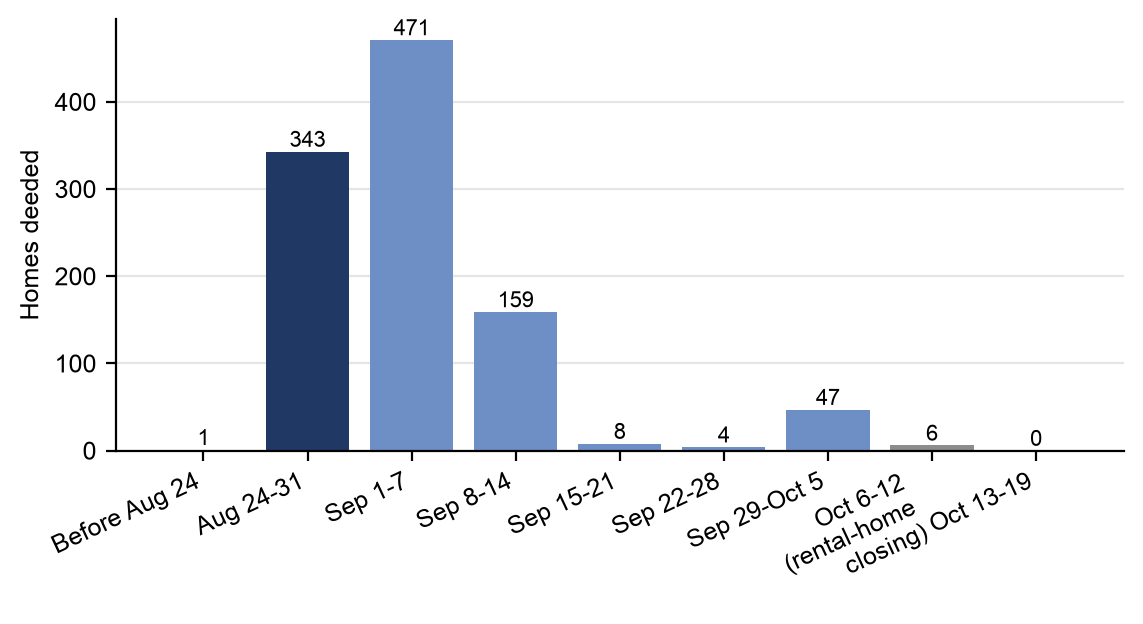
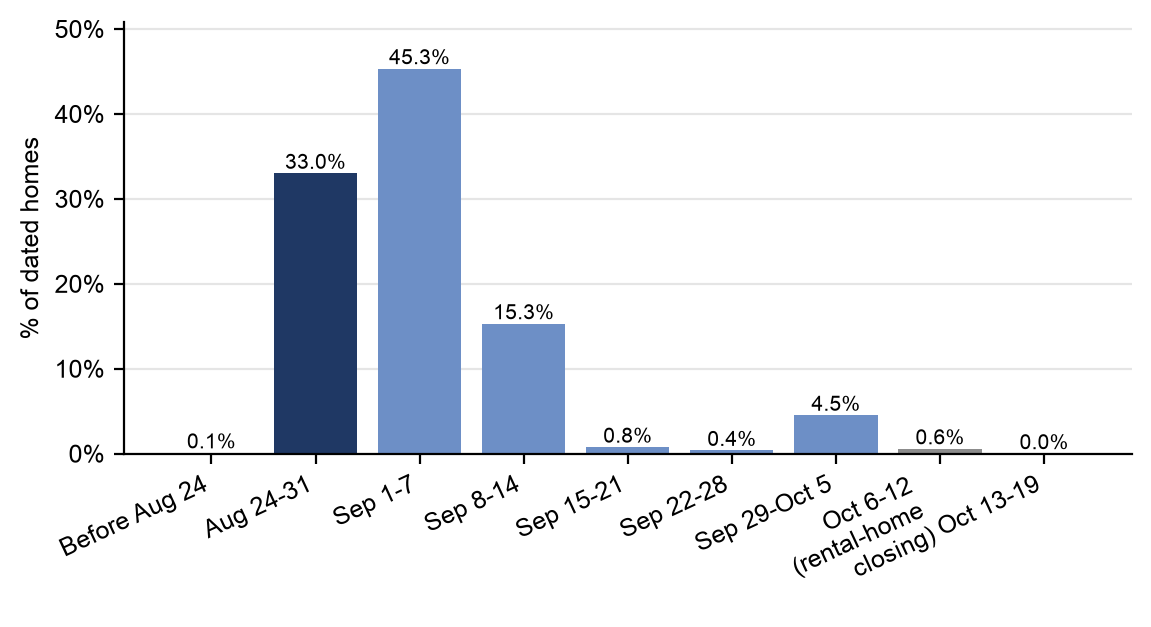
Note: add yield and IRR sensitivity to discounts vs deed prices (Exhibits 6b, 7b); show Exhibits 2 and 2b as % of homes

diff --git a/note/README.md b/note/README.md
@@ -39,14 +39,14 @@ Source: Millrose Q2 2026 10-Q, county deed records
 **Millrose appears to have paused its deployments into rental homes.** A smaller burst followed the flurry of late-August sales (around the end of September). In our most recent, re-check of ~190 searchable counties, we found no home deed to Millrose recorded after October 5, even though most county indexes were current to October 12–19. We believe this is evidence of the fact that MRP has paused its purchases of homes in recent weeks in response to investor concerns (including the risk-adjusted return profile of these investments), and we believe an official decision could be communicated at earnings.
 
 **Exhibit 2: Deeds were recorded from Aug 27 (the amendment date) through early September, then slowed; the last was a closing of 6 rental homes on Oct 7, with none since**
-*Homes deeded to Millrose by recording date (or assessor deed/sale date where the recording date is not shown); dark bar = Aug 24-31, the last week of August (the rental-home amendment is dated Aug 27; no deeds were recorded Aug 24-26 other than 1 county index entry). Deeds recorded in early September were mostly signed in late August. Before Aug 24 = 1 older deed. 4 Henrico, VA homes have only a weekly date range (Aug 26-Sep 1) and are shown in Aug 24-31. Oct 6-12 = a single closing of 6 rental homes in Forsyth County, NC (Oct 7); no deeds Oct 8-19.*
+*% of dated homes deeded to Millrose (n=1,039; sums to 100%), by recording date (or assessor deed/sale date where the recording date is not shown); dark bar = Aug 24-31, the last week of August (the rental-home amendment is dated Aug 27; no deeds were recorded Aug 24-26 other than 1 county index entry). Deeds recorded in early September were mostly signed in late August. Before Aug 24 = 1 older deed. 4 Henrico, VA homes have only a weekly date range (Aug 26-Sep 1) and are shown in Aug 24-31. Oct 6-12 = a single closing of 6 rental homes in Forsyth County, NC (Oct 7); no deeds Oct 8-19.*
 
 ![Exhibit 2](exhibits/ex2.png)
 
 Source: County deed records (searched through Oct 19, 2026; most indexes current to Oct 12-19)
 
 **Exhibit 2b: On a signing-date basis, ~87% of sampled homes were signed in Aug 24-31, the last week of August**
-*Homes by deed signing date or assessor sale date, where public (sample of 433 homes, ~40% of the total; weighted to TX, SC and AR). Aug 24-31 includes 25 Horry County, SC assessor sale dates of Aug 24-25, likely contract or deed-preparation dates; all other dates in that week fall on Aug 27-31. Earlier dates on the same parcels (prior transactions) excluded.*
+*% of sampled homes by deed signing date or assessor sale date, where public (sample of 433 homes, sums to 100%; ~40% of the total; weighted to TX, SC and AR). Aug 24-31 includes 25 Horry County, SC assessor sale dates of Aug 24-25, likely contract or deed-preparation dates; all other dates in that week fall on Aug 27-31. Earlier dates on the same parcels (prior transactions) excluded.*
 
 ![Exhibit 2b](exhibits/ex2b.png)
 
@@ -102,7 +102,16 @@ Source: Evergreen Live, AMH and Invitation Homes rental listings (Oct 2026), US 
 
 Source: Evergreen Live listings (Oct 2026), county deed records
 
-**Returns.** We estimate the portfolio unlevered IRR under three home price scenarios (Exhibit 7), assuming a 60% NOI margin and 3% annual rent growth after year one. In a downside scenario, with home prices down 2% in year one and flat thereafter, the IRR is ~3.3% over three years and ~4.1% over five. In a middle scenario, with Zillow's 12-month zip-code forecast in year one (~+0.6% on average) and 3% a year thereafter, the IRR is ~6.0–6.7% over a 3–5 year hold. In a stretch scenario of 5% home price growth every year, the 5-year IRR reaches ~9.0%, in line with the ~9% weighted-average yield on the monthly option payments across MRP's land-banking portfolio. The main risk is the home-price outlook. On our zip-code-weighted index of Millrose's markets (new-home community zip codes, weighted by Millrose's land dollars by state), home values have been flat since mid-2022 and are ~2% below their February 2025 peak, while the US index has kept rising (Exhibit 8).
+**Discounts to deed prices.** The yields above are based on recorded deed prices, which may overstate what MRP actually paid. Bulk buyers of builder homes can receive discounts or credits that do not appear on the deed: Invitation Homes disclosed in its November 17, 2025 investor presentation that it had acquired scattered-site homes from ~10 homebuilders at discounts of up to 20% to list prices, and a 10–15% discount to market value on a forward-purchase community (Westfield Village, Atlanta). Those figures are relative to list prices and market value; MRP's deed prices were already a median ~3% below the last asking price. If MRP's true cost were 5–20% below the deed prices, gross yields would rise to ~8.6–10.3% and NOI yields to ~5.2–6.2% (Exhibit 6b). At a 10–15% discount, in line with Invitation Homes' forward-purchase case study, NOI yields would be ~5.5–5.8%.
+
+**Exhibit 6b: A 10-15% discount to deed prices would lift NOI yields to ~5.5-5.8%**
+*Average gross yield (annual asking rent / cost) and NOI yield (60% NOI margin) if MRP's cost were 0-20% below the recorded deed prices; 0% = deed-price basis (~8.2% average gross yield, Exhibit 6)*
+
+![Exhibit 6b](exhibits/ex6b.png)
+
+Source: County deed records, Evergreen Live listings (Oct 2026), Invitation Homes investor presentation (Nov 2025)
+
+**Returns.** We estimate the portfolio unlevered IRR under three home price scenarios (Exhibit 7), assuming a 60% NOI margin and 3% annual rent growth after year one. In a downside scenario, with home prices down 2% in year one and flat thereafter, the IRR is ~3.3% over three years and ~4.1% over five. In a middle scenario, with Zillow's 12-month zip-code forecast in year one (~+0.6% on average) and 3% a year thereafter, the IRR is ~6.0–6.7% over a 3–5 year hold. In a stretch scenario of 5% home price growth every year, the 5-year IRR reaches ~9.0%, in line with the ~9% weighted-average yield on the monthly option payments across MRP's land-banking portfolio. These IRRs assume MRP paid the deed price. If its true cost was below the deed price, returns rise meaningfully, largely because the homes would have been bought below market value: at a 10% discount, the 5-year IRR is ~9.2% in our middle scenario and ~6.6% in the downside scenario (Exhibit 7b). The main risk is the home-price outlook. On our zip-code-weighted index of Millrose's markets (new-home community zip codes, weighted by Millrose's land dollars by state), home values have been flat since mid-2022 and are ~2% below their February 2025 peak, while the US index has kept rising (Exhibit 8).
 
 **Exhibit 7: Unlevered IRR of ~4-9% over five years depending on home prices; ~6.7% in our middle scenario**
 *Portfolio unlevered IRR by hold period for 528 homes with a recorded price, asking rent and Zillow zip forecast; 60% NOI margin, 3% rent growth after year 1. Home price scenarios as labeled.*
@@ -111,6 +120,13 @@ Source: Evergreen Live listings (Oct 2026), county deed records
 
 Source: County deed records, Evergreen Live listings, Zillow
 
+**Exhibit 7b: At a 10-15% discount to deed prices, MRP would need only ~1-2% annual home price growth to reach a 9% IRR**
+*Left: constant annual home price growth (from year 1) needed for a 9% portfolio 5-year unlevered IRR. Right: 5-year IRR in our middle and downside scenarios (Exhibit 7). By discount of MRP's cost to the recorded deed price; home values start at the deed price; 528 homes; 60% NOI margin, 3% rent growth, 3% selling costs.*
+
+![Exhibit 7b](exhibits/ex7b.png)
+
+Source: County deed records, Evergreen Live listings, Zillow, Invitation Homes investor presentation (Nov 2025)
+
 **Exhibit 8: Home values in Millrose markets are flat since mid-2022 and 2% below the Feb-2025 peak**
 *Zillow home value index (single-family, mid tier, SA), Jan 2020 = 100; Millrose markets = new-home community zips weighted by Millrose $ by state*
 
@@ -118,9 +134,9 @@ Source: County deed records, Evergreen Live listings, Zillow
 
 Source: Zillow, Millrose filings, company websites
 
-Put differently, the homes would need home price appreciation of ~5% a year to match the ~9% weighted-average yield MRP earns on monthly option payments across its land-banking portfolio, versus a ~6.7% 5-year IRR in our middle scenario. Average gross yields of ~8.2% vary by state, with the Southeast highest.
+Put differently, on deed prices the homes would need home price appreciation of ~5% a year to match the ~9% weighted-average yield MRP earns on monthly option payments across its land-banking portfolio, versus a ~6.7% 5-year IRR in our middle scenario. At a 5% discount to deed prices, the required appreciation falls to ~3.7% a year; at 10%, ~2.3%; at 15%, under 1%; and at 20%, the homes would reach a 9% IRR even with slightly falling home prices (Exhibit 7b). Average gross yields of ~8.2% vary by state, with the Southeast highest.
 
-**Bottom line on rental homes: a small pilot that appears to be paused.** We estimate Millrose has spent ~$310mn on ~1,100 homes, ~3% of its homesite book, bought at a median ~3% below the last asking price, mostly in the final week of August. The homes are being leased up rather than acquired tenanted, at gross yields of ~8% (NOI yields of ~4–5.5%) and 5-year unlevered IRRs of ~4–9% depending on home prices. The program appears to have paused, and even assuming this pilot goes badly, the impact is small: in an extreme scenario in which home prices fall 5% a year for five years (~23% cumulatively), we estimate the hit to MRP's book value would be about $70mn, ~1% of book value, or less than $0.50 per share, before any rental income. If the scale of investments in rental homes is limited to what has already been invested, we do not see this pilot rental home investments as a material risk to book value.
+**Bottom line on rental homes: a small pilot that appears to be paused.** We estimate Millrose has spent ~$310mn on ~1,100 homes, ~3% of its homesite book, bought at a median ~3% below the last asking price, mostly in the final week of August. The homes are being leased up rather than acquired tenanted, at gross yields of ~8% and NOI yields of ~4–5.5% on deed prices (~5.5–5.8% if MRP bought at 10–15% discounts like those Invitation Homes has disclosed on builder product), and 5-year unlevered IRRs of ~4–9% on deed prices depending on home prices (~6.5–13% at a 10–15% discount). The program appears to have paused, and even assuming this pilot goes badly, the impact is small: in an extreme scenario in which home prices fall 5% a year for five years (~23% cumulatively), we estimate the hit to MRP's book value would be about $70mn, ~1% of book value, or less than $0.50 per share, before any rental income. If the scale of investments in rental homes is limited to what has already been invested, we do not see this pilot rental home investments as a material risk to book value.
 
 ---
 
@@ -131,15 +147,17 @@ Each exhibit has a data file in [`exhibits/`](exhibits/) and the chart image use
 | Exhibit | What it shows | Data file | Excel chart |
 |---|---|---|---|
 | 1 | Homes by state | [`ex1_homes_by_state.tsv`](exhibits/ex1_homes_by_state.tsv) | Clustered column (State, Homes) |
-| 2 | Homes deeded per week, by recording date | [`ex2_deeds_by_recording_week.tsv`](exhibits/ex2_deeds_by_recording_week.tsv) | Clustered column |
-| 2b | Homes by signing or sale date (433-home sample) | [`ex2b_homes_by_signing_week.tsv`](exhibits/ex2b_homes_by_signing_week.tsv) | Clustered column; column C gives each week's share (formula) |
+| 2 | % of homes deeded per week, by recording date | [`ex2_deeds_by_recording_week.tsv`](exhibits/ex2_deeds_by_recording_week.tsv) | Clustered column of column C (% of dated homes, formula) |
+| 2b | % of homes by signing or sale date (433-home sample) | [`ex2b_homes_by_signing_week.tsv`](exhibits/ex2b_homes_by_signing_week.tsv) | Clustered column of column C (% of sampled homes, formula) |
 | 3 | MRP price vs. last asking price | [`ex3_price_vs_last_list.tsv`](exhibits/ex3_price_vs_last_list.tsv) | Clustered column (band, % of homes) |
 | 4 | Days listed before MRP bought | [`ex4_days_listed.tsv`](exhibits/ex4_days_listed.tsv) | Clustered column |
 | 5 | Purchase price bands | [`ex5_purchase_price.tsv`](exhibits/ex5_purchase_price.tsv) | Clustered column |
 | 5b | Population density vs. new-home communities, AMH and Invitation Homes | [`ex5b_density.tsv`](exhibits/ex5b_density.tsv) | Clustered bar (Portfolio, Median density); add the percentile as data labels |
 | 5c | Asking rents vs. AMH and Invitation Homes, same metros | [`ex5c_rents_vs_peers.tsv`](exhibits/ex5c_rents_vs_peers.tsv) | Clustered column (Metro; Millrose, AMH and Invitation Homes rents); columns H–I give Millrose's gap (formulas) |
 | 6 | Gross yield and estimated NOI yield by state | [`ex6_yields_by_state.tsv`](exhibits/ex6_yields_by_state.tsv) | Combo: gross yield as columns, NOI yield (formula = gross × 60%) as markers only |
+| 6b | Gross and NOI yield by discount to deed price | [`ex6b_yields_by_discount.tsv`](exhibits/ex6b_yields_by_discount.tsv) | Clustered column (discount; gross and NOI yield, both formulas) |
 | 7 | Unlevered IRR by hold period, three scenarios | [`ex7_irr_scenarios.tsv`](exhibits/ex7_irr_scenarios.tsv) | Line with markers; format the "9% core option-book yield" series as a red dashed line with no markers |
+| 7b | Home price growth needed for a 9% IRR, and 5-yr IRR, by discount to deed price | [`ex7b_irr_by_discount.tsv`](exhibits/ex7b_irr_by_discount.tsv) | Two charts: clustered column (column B) and line with markers (columns C–D); add a 9% horizontal line to the second |
 | 8 | Zillow home value index, Millrose markets vs. US | [`ex8_home_value_index.tsv`](exhibits/ex8_home_value_index.tsv) | Line (Month on the horizontal axis) |
 | 9 | Rental-home spend vs. homesite book | [`ex9_rental_vs_book.tsv`](exhibits/ex9_rental_vs_book.tsv) | Clustered bar ($ billions) |
 
